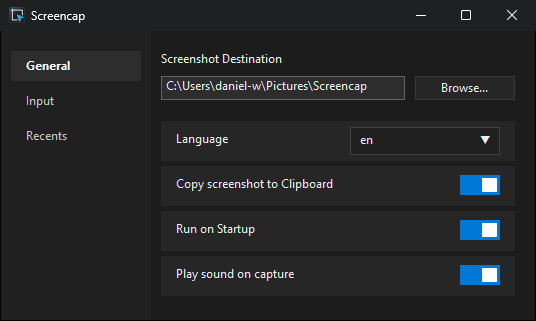
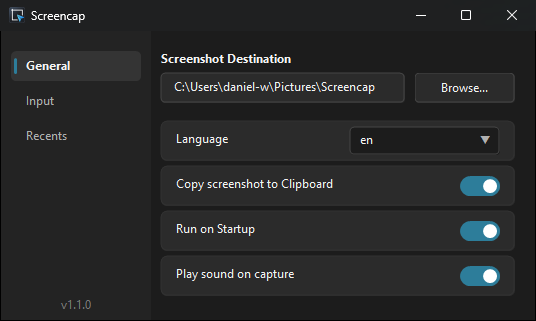
update images

diff --git a/README.md b/README.md
@@ -25,7 +25,7 @@ As for the `fallback_screenshot` shortcut, that's a fallback for `screenshot` as
 ![general](screenshots/general.png)
 ### Input
 ![input](screenshots/input.png)
-### Gallery
-![gallery](screenshots/gallery.png)
+### Recents
+![recents](screenshots/recents.png)
 
 [Credits](credits.md)